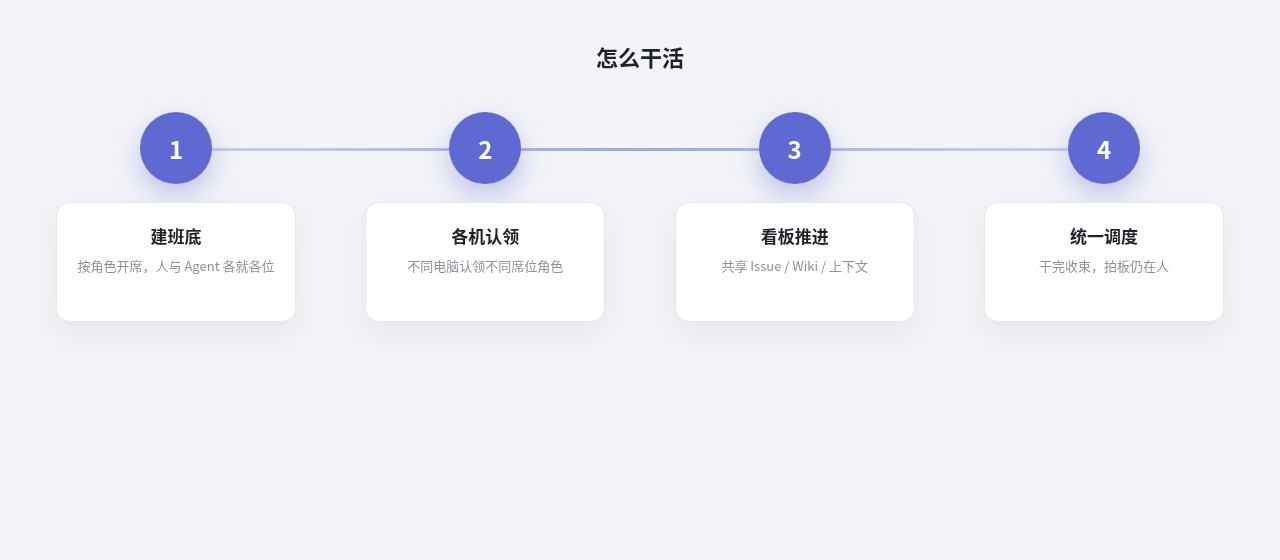
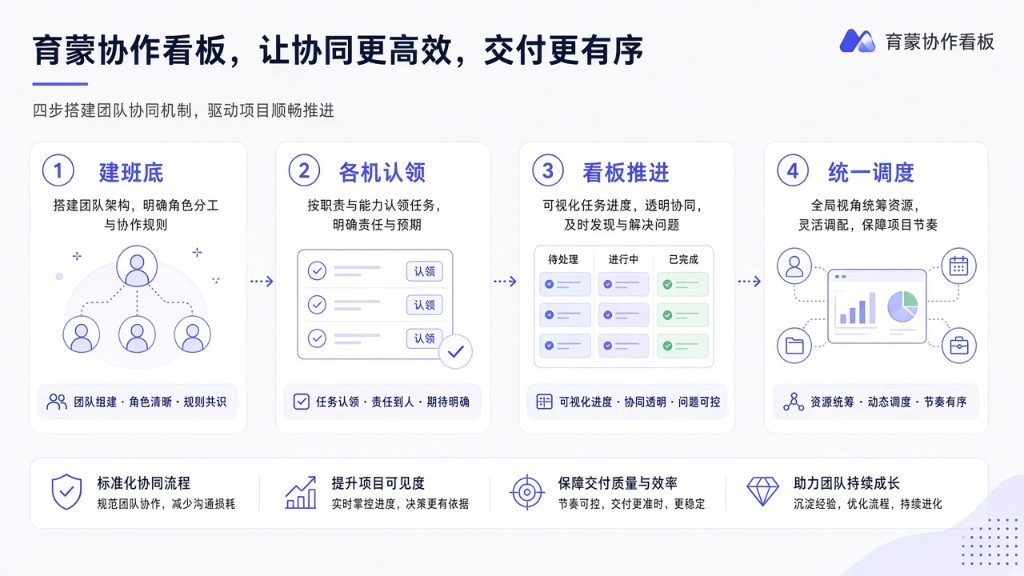
feat(landing): wire owner refs as true-art PNGs
Cover landing-*.png from refs/ref-01..06 (owner pack @19e0af2).
No GenerateImage regen; no HTML→PNG. Update assets README + MANIFEST map.

diff --git a/frontend/src/pages/Landing/assets/README.md b/frontend/src/pages/Landing/assets/README.md
@@ -3,16 +3,17 @@
 - 提示词还原包：[`docs/landing-art/MANIFEST.md`](../../../../docs/landing-art/MANIFEST.md)
 - 气质专册：[`docs/LANDING_TRUE_ART_PROMPTS.md`](../../../../docs/LANDING_TRUE_ART_PROMPTS.md)
 - 视觉基线：[`docs/SITE_LANDING_VISUAL_BASELINE.md`](../../../../docs/SITE_LANDING_VISUAL_BASELINE.md)
+- 主人参考图包：[`refs/`](./refs/)（13 张，未接线备选）
 
-| 文件 | 用途 |
-| --- | --- |
-| `landing-hero-board.png` | Hero |
-| `landing-why-compare.png` | 为什么做 |
-| `landing-team-board.png` | 一支队 |
-| `landing-multi-machines.png` | 多机 |
-| `landing-seats-keys.png` | 席位/钥 |
-| `landing-flow-steps.png` | 四步流程 |
+| 接线文件 | 来源（主人 refs，2026-10-26 覆盖） | 用途 |
+| --- | --- | --- |
+| `landing-hero-board.png` | `refs/ref-01-hero-pipeline.png` | Hero |
+| `landing-why-compare.png` | `refs/ref-02-pain-vs-roster.png` | 为什么做 |
+| `landing-team-board.png` | `refs/ref-03-shared-workspace.png` | 一支队 |
+| `landing-multi-machines.png` | `refs/ref-04-dispatch-isometric.png` | 多机 |
+| `landing-seats-keys.png` | `refs/ref-05-seat-dashboard.png` | 席位/钥 |
+| `landing-flow-steps.png` | `refs/ref-06-four-steps-wide.png` | 四步流程 |
 
-禁 CSS mock / HTML→PNG 冒充。接线用 `<img src={...}>`；有 `.webp` 优先 webp。
+**真图来源**：主人交来的官网参考图（插画级），**非** HTML→PNG、**非**仓内盲重生。`refs/ref-07`–`ref-13` 留存备选，不接线。
 
-主人 2026-10-25 交来的官网参考图在 `refs/`（13 张，未接线）。后续按这套图重做官网，说明见 `refs/README.md`。
+接线用 `<img src={...}>`；有 `.webp` 优先 webp。

diff --git a/docs/landing-art/MANIFEST.md b/docs/landing-art/MANIFEST.md
@@ -1,8 +1,6 @@
 # LANDING GenerateImage 真图 · 还原包
 
-> 供其他 AI / 同事按文件名还原插画。气质与禁项以 [`../LANDING_TRUE_ART_PROMPTS.md`](../LANDING_TRUE_ART_PROMPTS.md) 为准。  
-> 落盘目录：`frontend/src/pages/Landing/assets/`（覆盖同名 PNG）。  
-> **真图必须是 GenerateImage（或同等插画引擎）**；禁止 HTML/CSS→PNG、色块拼版冒充。
+> **2026-10-26 开刀更正**：接线六图已改为覆盖主人 refs（`Landing/assets/refs/ref-01`…`ref-06`），**禁止再盲重生 / HTML→PNG**。映射见 `frontend/src/pages/Landing/assets/README.md`。下列提示词仅作备选还原文案。
 
 ## 文件 ↔ 提示词
 
